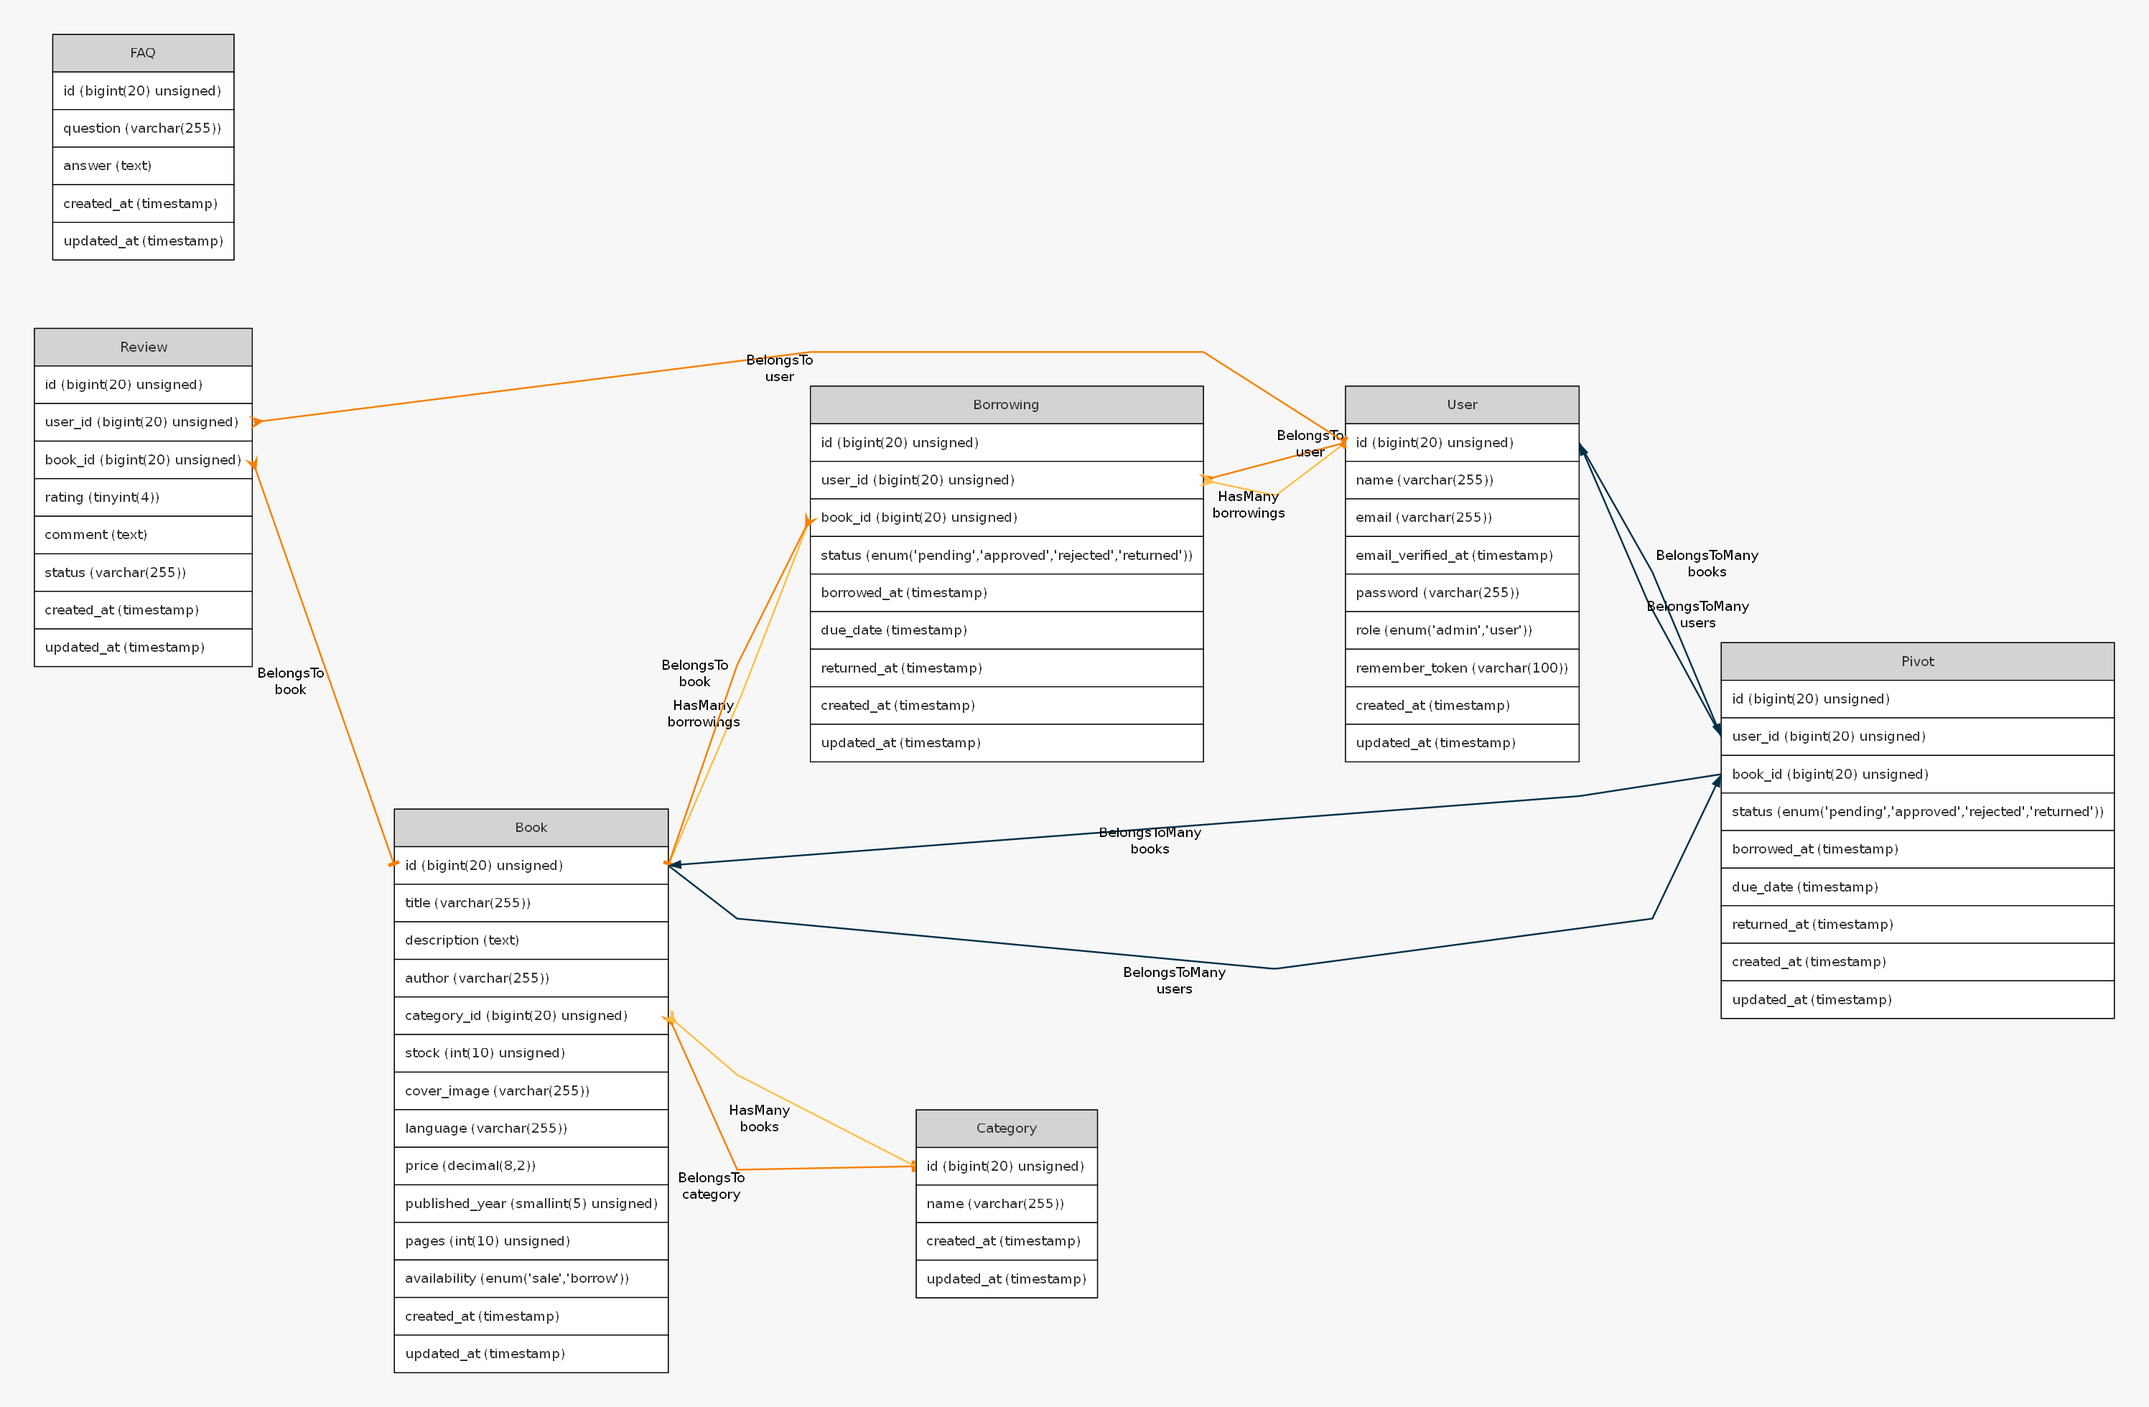
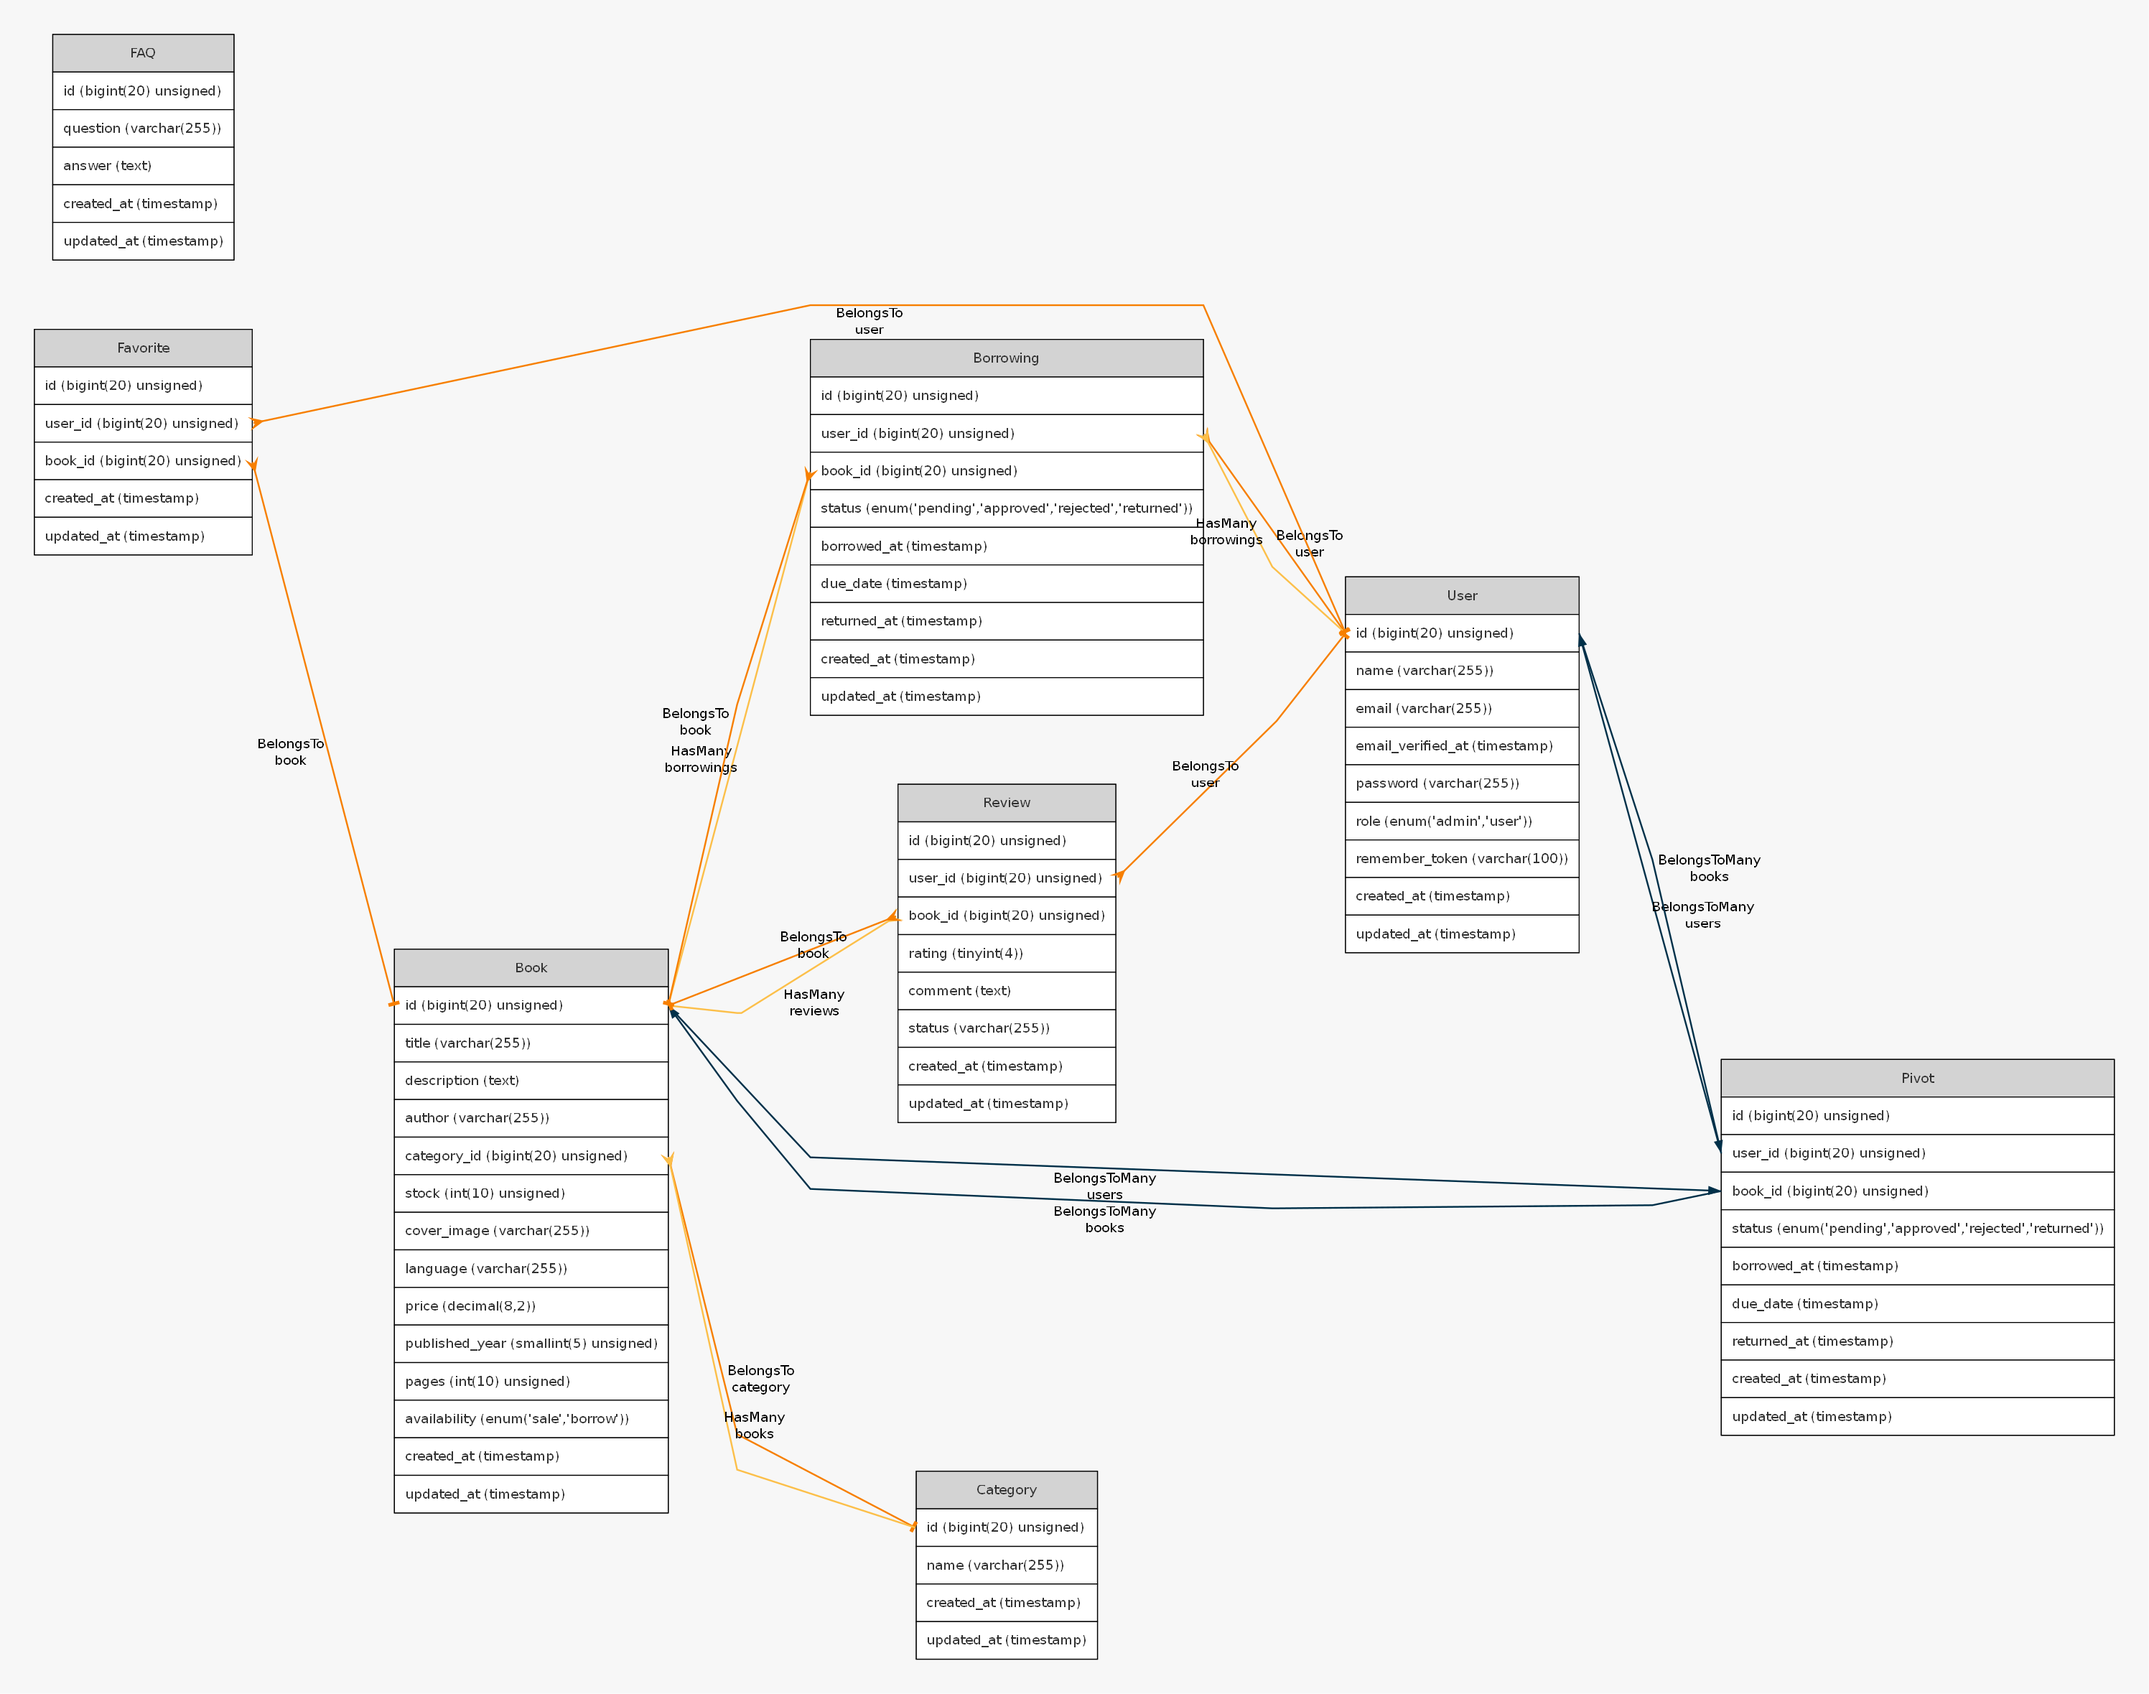
add README.md file

diff --git a/README.md b/README.md
@@ -1,59 +1,211 @@
-<p align="center"><a href="https://laravel.com" target="_blank"><img src="https://raw.githubusercontent.com/laravel/art/master/logo-lockup/5%20SVG/2%20CMYK/1%20Full%20Color/laravel-logolockup-cmyk-red.svg" width="400" alt="Laravel Logo"></a></p>
+# 📚 E-Library Management System (ELMS)
 
-<p align="center">
-<a href="https://github.com/laravel/framework/actions"><img src="https://github.com/laravel/framework/workflows/tests/badge.svg" alt="Build Status"></a>
-<a href="https://packagist.org/packages/laravel/framework"><img src="https://img.shields.io/packagist/dt/laravel/framework" alt="Total Downloads"></a>
-<a href="https://packagist.org/packages/laravel/framework"><img src="https://img.shields.io/packagist/v/laravel/framework" alt="Latest Stable Version"></a>
-<a href="https://packagist.org/packages/laravel/framework"><img src="https://img.shields.io/packagist/l/laravel/framework" alt="License"></a>
-</p>
+## 📌 Overview
 
-## About Laravel
+**E-Library Management System (ELMS)** is a scalable backend system built with Laravel, designed to provide secure and high-performance RESTful APIs for managing digital libraries.
 
-Laravel is a web application framework with expressive, elegant syntax. We believe development must be an enjoyable and creative experience to be truly fulfilling. Laravel takes the pain out of development by easing common tasks used in many web projects, such as:
+The system follows **Clean Architecture principles**, implementing a clear separation between layers such as Controllers, Services, Repositories, and DTOs — making it highly maintainable and production-ready.
 
-- [Simple, fast routing engine](https://laravel.com/docs/routing).
-- [Powerful dependency injection container](https://laravel.com/docs/container).
-- Multiple back-ends for [session](https://laravel.com/docs/session) and [cache](https://laravel.com/docs/cache) storage.
-- Expressive, intuitive [database ORM](https://laravel.com/docs/eloquent).
-- Database agnostic [schema migrations](https://laravel.com/docs/migrations).
-- [Robust background job processing](https://laravel.com/docs/queues).
-- [Real-time event broadcasting](https://laravel.com/docs/broadcasting).
+> ⚠ **Status:** The project is currently under active development.
 
-Laravel is accessible, powerful, and provides tools required for large, robust applications.
+---
 
-## Learning Laravel
+## 🧰 Tech Stack
 
-Laravel has the most extensive and thorough [documentation](https://laravel.com/docs) and video tutorial library of all modern web application frameworks, making it a breeze to get started with the framework. You can also check out [Laravel Learn](https://laravel.com/learn), where you will be guided through building a modern Laravel application.
+```text
+Laravel          – Backend Framework
+PHP 8.x          – Core Language
+MySQL            – Relational Database
+Laravel Sanctum  – API Authentication
+REST API         – Communication Architecture
+Clean Architecture – System Design Pattern
+DTOs + Enums     – Structured Data Handling
+```
 
-If you don't feel like reading, [Laracasts](https://laracasts.com) can help. Laracasts contains thousands of video tutorials on a range of topics including Laravel, modern PHP, unit testing, and JavaScript. Boost your skills by digging into our comprehensive video library.
+---
 
-## Laravel Sponsors
+## 🧱 Architecture Overview
 
-We would like to extend our thanks to the following sponsors for funding Laravel development. If you are interested in becoming a sponsor, please visit the [Laravel Partners program](https://partners.laravel.com).
+This project strictly follows a layered architecture:
 
-### Premium Partners
+```text
+Client Request
+     ↓
+Routes (api/v1)
+     ↓
+Middleware (Auth / Admin)
+     ↓
+Controller
+     ↓
+Service Layer (Business Logic)
+     ↓
+Repository Layer (Data Access)
+     ↓
+Model (Eloquent ORM)
+     ↓
+Database
 
-- **[Vehikl](https://vehikl.com)**
-- **[Tighten Co.](https://tighten.co)**
-- **[Kirschbaum Development Group](https://kirschbaumdevelopment.com)**
-- **[64 Robots](https://64robots.com)**
-- **[Curotec](https://www.curotec.com/services/technologies/laravel)**
-- **[DevSquad](https://devsquad.com/hire-laravel-developers)**
-- **[Redberry](https://redberry.international/laravel-development)**
-- **[Active Logic](https://activelogic.com)**
+Exception → Handler → JSON Error Response
+Resource → API Response Formatting
+```
 
-## Contributing
+---
 
-Thank you for considering contributing to the Laravel framework! The contribution guide can be found in the [Laravel documentation](https://laravel.com/docs/contributions).
+## 📁 Project Structure
 
-## Code of Conduct
+```text
+app/
+ ├── DTOs/                → Data Transfer Objects
+ ├── Enums/               → Enum types (e.g. BorrowingStatus)
+ ├── Exceptions/          → Custom exception handling
+ │
+ ├── Http/
+ │    ├── Controllers/
+ │    │    └── API/v1/
+ │    │         ├── Admin/
+ │    │         ├── Website/
+ │    │         └── Auth/
+ │    │
+ │    ├── Requests/       → Form validation
+ │    └── Resources/      → API response formatting
+ │
+ ├── Models/              → Eloquent models
+ ├── Services/            → Business logic layer
+ │
+ ├── Repositories/
+ │    ├── Contracts/      → Interfaces
+ │    └── Eloquent/       → Implementations
+ │
+ └── Providers/           → Service bindings
+```
 
-In order to ensure that the Laravel community is welcoming to all, please review and abide by the [Code of Conduct](https://laravel.com/docs/contributions#code-of-conduct).
+---
 
-## Security Vulnerabilities
+## 📦 Features
 
-If you discover a security vulnerability within Laravel, please send an e-mail to Taylor Otwell via [taylor@laravel.com](mailto:taylor@laravel.com). All security vulnerabilities will be promptly addressed.
+### ✅ Implemented
 
-## License
+* 🔐 Authentication (Laravel Sanctum)
+* 👤 User management (Admin & Users)
+* 📚 Books management (CRUD)
+* 🏷 Categories system
+* ❤ Favorites system
+* ⭐ Reviews system
+* ❓ FAQ module
+* 📦 Clean Architecture implementation
+* 📡 RESTful API with versioning (`v1`)
+* ⚙ DTOs for structured data transfer
+* 🧩 Repository Pattern (Interface + Implementation)
+* 🛡 Custom Exception Handling
 
-The Laravel framework is open-sourced software licensed under the [MIT license](https://opensource.org/licenses/MIT).
+---
+
+### 🚧 In Progress
+
+* 📖 Borrowing system enhancements
+* ⏳ Book reservation system
+* 🔍 Advanced filtering & search
+* 📊 Admin analytics dashboard
+* 🔔 Notifications system
+
+---
+
+## 🧭 API Modules
+
+### 🔑 Auth
+
+* Register
+* Login
+* Logout
+
+### 📚 Books
+
+* CRUD operations
+* Image upload support
+
+### ❤ Favorites
+
+* Add / Remove favorite books
+* Get user favorites
+
+### 📖 Borrowings
+
+* Borrow books
+* Track borrowing status
+
+### ⭐ Reviews
+
+* Add reviews to books
+
+### 🏷 Categories
+
+* Organize books
+
+### ❓ FAQ
+
+* Manage common questions
+
+---
+
+## 🧭 ERD
+
+![ERD Diagram](graph.png)
+
+---
+
+## 🚀 Getting Started
+
+```bash
+git clone https://github.com/your-username/e-library.git
+
+cd e-library
+
+composer install
+
+cp .env.example .env
+php artisan key:generate
+
+php artisan migrate
+
+php artisan serve
+```
+
+---
+
+## 🔐 Authentication
+
+The system uses **Laravel Sanctum**.
+
+Include token in headers:
+
+```http
+Authorization: Bearer YOUR_TOKEN
+```
+
+---
+
+## 🧪 Testing
+
+```bash
+php artisan test
+```
+
+---
+
+## 🧠 Design Principles
+
+* Separation of concerns
+* Dependency Injection via Interfaces
+* Scalable and maintainable structure
+* Clean and reusable code
+* Consistent API responses using Resources
+
+---
+
+## 🤝 Contributing
+
+```bash
+Fork → Create Branch → Commit → Pull Request
+```
+
+---
